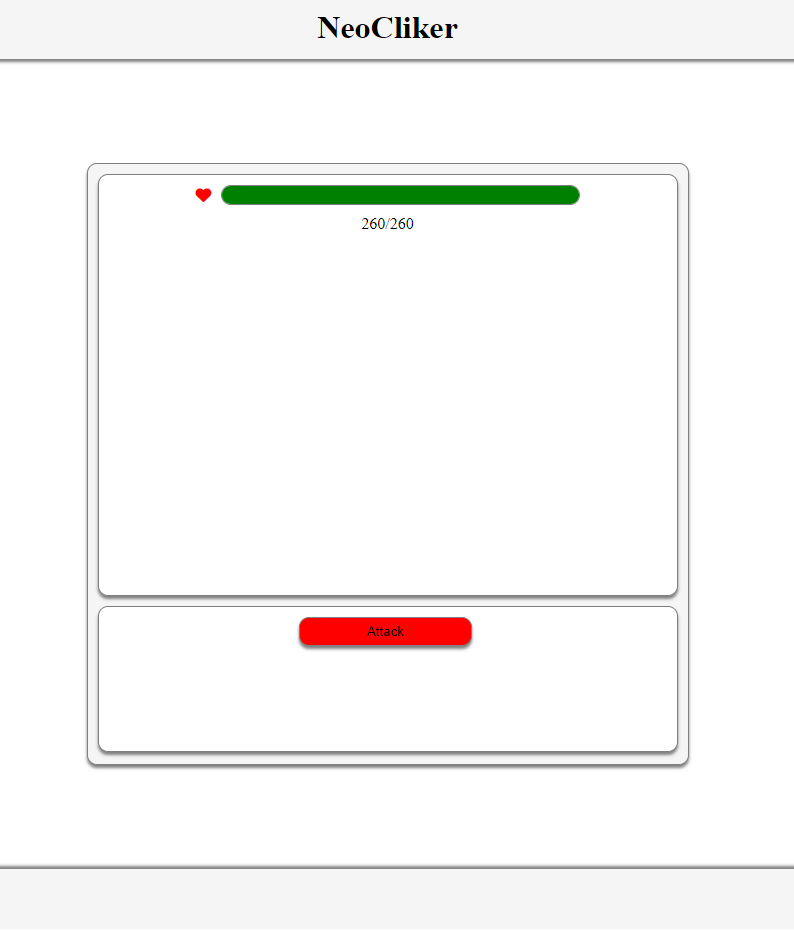
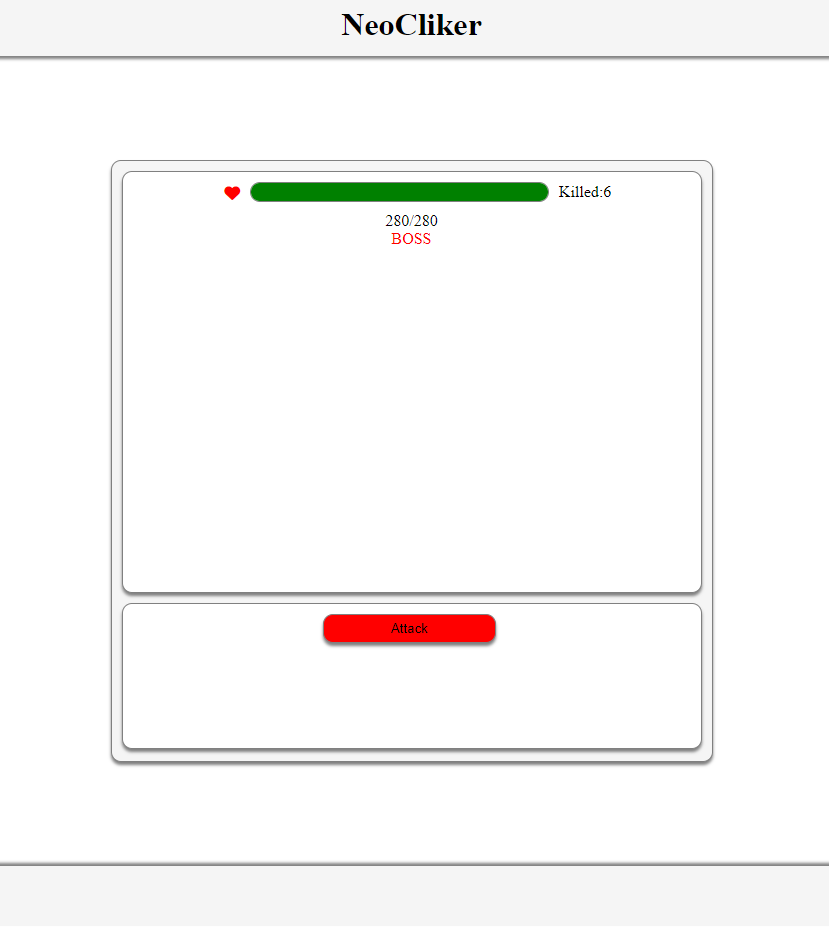
New Update
Added :
- Kills counter
- Boss monsters (more 200 HP)

Changed region(s): [[0.1209, 0.151, 0.8766, 0.8457], [0.0, 0.0, 1.0, 0.0906]]

diff --git a/NeoCliker/assets/js/app.js b/NeoCliker/assets/js/app.js
@@ -6,13 +6,32 @@ document.addEventListener("DOMContentLoaded", function(event) {
    //---------------------------//
    let damage = 10; // damage inflicted on the monster
    //console log
-   var monsterHealth = hp;
+   let monsterHealth = hp;
+   let killedNumber = document.getElementById("killedNum").innerHTML = 0;
+   let monsterBoss = document.getElementById("boss").innerHTML;
    console.log("Monster Health : " + monsterHealth);
    //---------------------------//
    let hpTotal = hp;
    let numHP = document.getElementById('hp').innerHTML = hp + "/" + hpTotal;
    document.getElementById("hpProgress").value = hp;
    document.getElementById("hpProgress").max = hp;
+   searchBoss();
+   //Search to boss
+   function searchBoss() {
+      if(hp > 200)
+      {
+         monsterBoss = document.getElementById("boss").style.display = "block";
+         alert("Boss has been found!");
+         //console log
+         console.log("Boss has been found!");
+      }
+      else
+      {
+         monsterBoss = document.getElementById("boss").style.display = "none";
+         //console log
+         console.log("Boss not found!");
+      }
+   }
    //On Btn Attack click event
    document.getElementById('btnAttack').addEventListener("click", function(event){
       if(document.getElementById("hpProgress").value != 0)
@@ -27,9 +46,8 @@ document.addEventListener("DOMContentLoaded", function(event) {
          hpRandom = hpPool[Math.floor(Math.random() * hpPool.length)];
          hp = hpRandom;
          monsterHealth = hp;
-         //console log
-         console.log("Monster Health : " + monsterHealth);
          hpTotal = hp;
+         killedNumber = document.getElementById("killedNum").innerHTML = killedNumber + 1;
          numHP = document.getElementById('hp').innerHTML = hp + "/" + hpTotal;
          document.getElementById("hpProgress").value = hp;
          document.getElementById("hpProgress").max = hp;
@@ -37,6 +55,9 @@ document.addEventListener("DOMContentLoaded", function(event) {
          alert("Monster in Killed");
          //console log
          console.log("Monster in Killed");
+         console.log("Create a new Monster...");
+         console.log("Monster Health : " + monsterHealth);
+         searchBoss();
       }
    });
 });

diff --git a/NeoCliker/index.html b/NeoCliker/index.html
@@ -12,7 +12,6 @@
    <header class="header">
       <h1 class="main-title">NeoCliker</h1>
    </header>
-
    <div class="main">
       <div class="container">
          <div class="main-inner">
@@ -20,8 +19,13 @@
                <div class="hp-bar">
                   <i class="hp-icon fa fa-heart" aria-hidden="true"></i>
                   <progress class="hp-stat" value="100" max="100" id="hpProgress"></progress>
+                  <div class="killed-bar">
+                     <div>Killed:</div>
+                     <div class="killed-number" id="killedNum"></div>
+                  </div>
                </div>
                <div class="hp-number" id="hp"></div>
+               <div class="monster-boss" id="boss">BOSS</div>
             </div>
             <div class="btns-bar">
                <button class="btn-attack" id="btnAttack">Attack</button>
@@ -30,7 +34,6 @@
          </div>
       </div>
    </div>
-
    <footer>
       <div class="container">
          <div class="skills">

diff --git a/NeoCliker/assets/scss/style.scss b/NeoCliker/assets/scss/style.scss
@@ -61,6 +61,7 @@ footer {
             margin: 10px 90px;
             display: flex;
             justify-content: center;
+            align-items: center;
 
             .hp-icon {
                color: red;
@@ -70,17 +71,29 @@ footer {
             }
 
             .hp-stat {
-               width: 90%;
+               width: 75%;
                height: 20px;
                background-color: red;
                border: 1px grey solid;
                border-radius: 10px;
                overflow: hidden;
             }
+
+            .killed-bar {
+               display: flex;
+               width: 10%;
+               margin-left: 10px;
+            }
          }
 
          .hp-number {
             text-align: center;
+         }
+
+         .monster-boss {
+            display: none;
+            text-align: center;
+            color: red;
          }
       }
 

diff --git a/NeoCliker/assets/css/style.css b/NeoCliker/assets/css/style.css
@@ -67,6 +67,9 @@ footer {
   -webkit-box-pack: center;
       -ms-flex-pack: center;
           justify-content: center;
+  -webkit-box-align: center;
+      -ms-flex-align: center;
+          align-items: center;
 }
 
 .main .main-inner .window .hp-bar .hp-icon {
@@ -79,7 +82,7 @@ footer {
 }
 
 .main .main-inner .window .hp-bar .hp-stat {
-  width: 90%;
+  width: 75%;
   height: 20px;
   background-color: red;
   border: 1px grey solid;
@@ -87,8 +90,22 @@ footer {
   overflow: hidden;
 }
 
+.main .main-inner .window .hp-bar .killed-bar {
+  display: -webkit-box;
+  display: -ms-flexbox;
+  display: flex;
+  width: 10%;
+  margin-left: 10px;
+}
+
 .main .main-inner .window .hp-number {
   text-align: center;
+}
+
+.main .main-inner .window .monster-boss {
+  display: none;
+  text-align: center;
+  color: red;
 }
 
 .main .main-inner .btns-bar {
